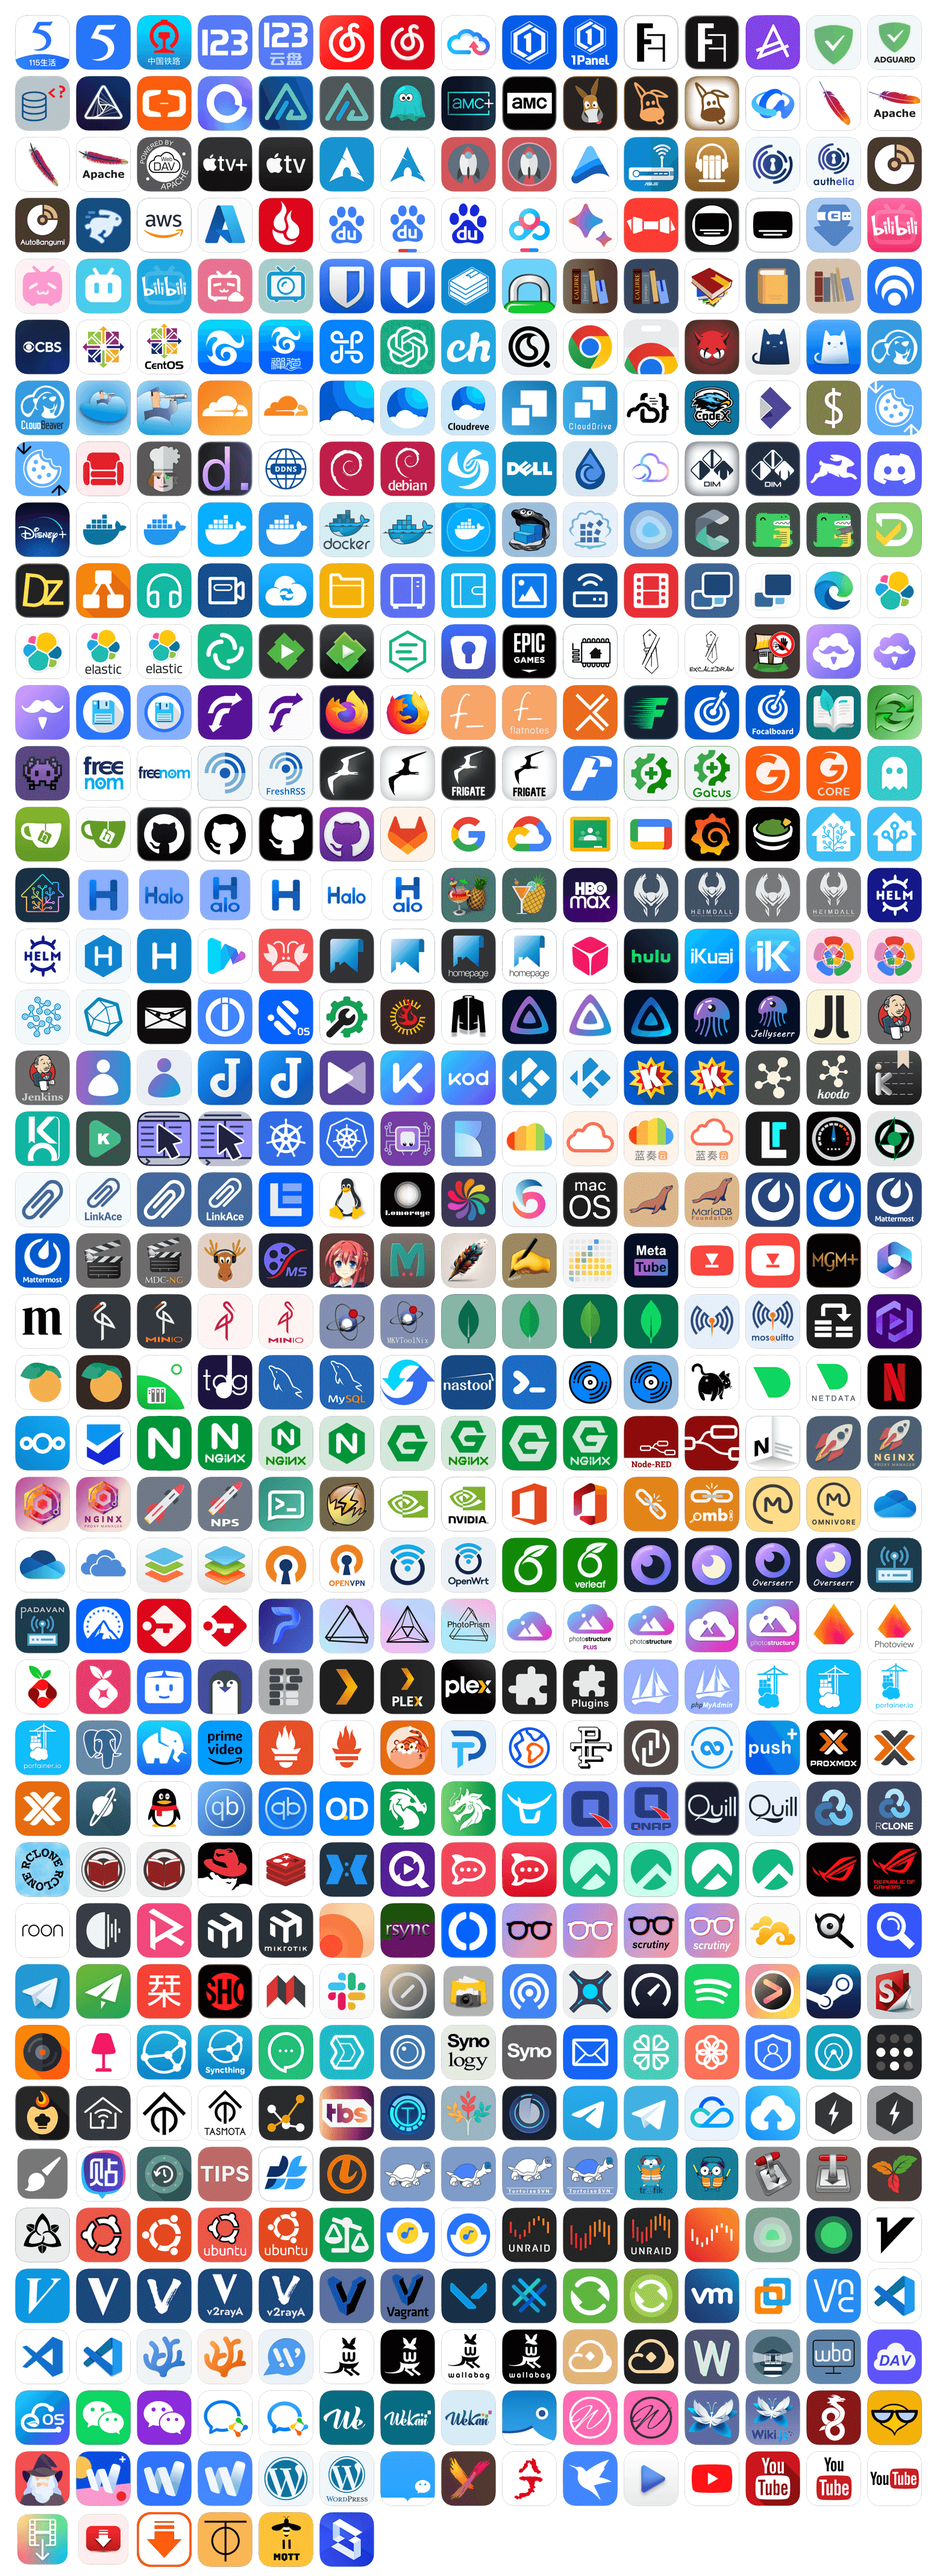
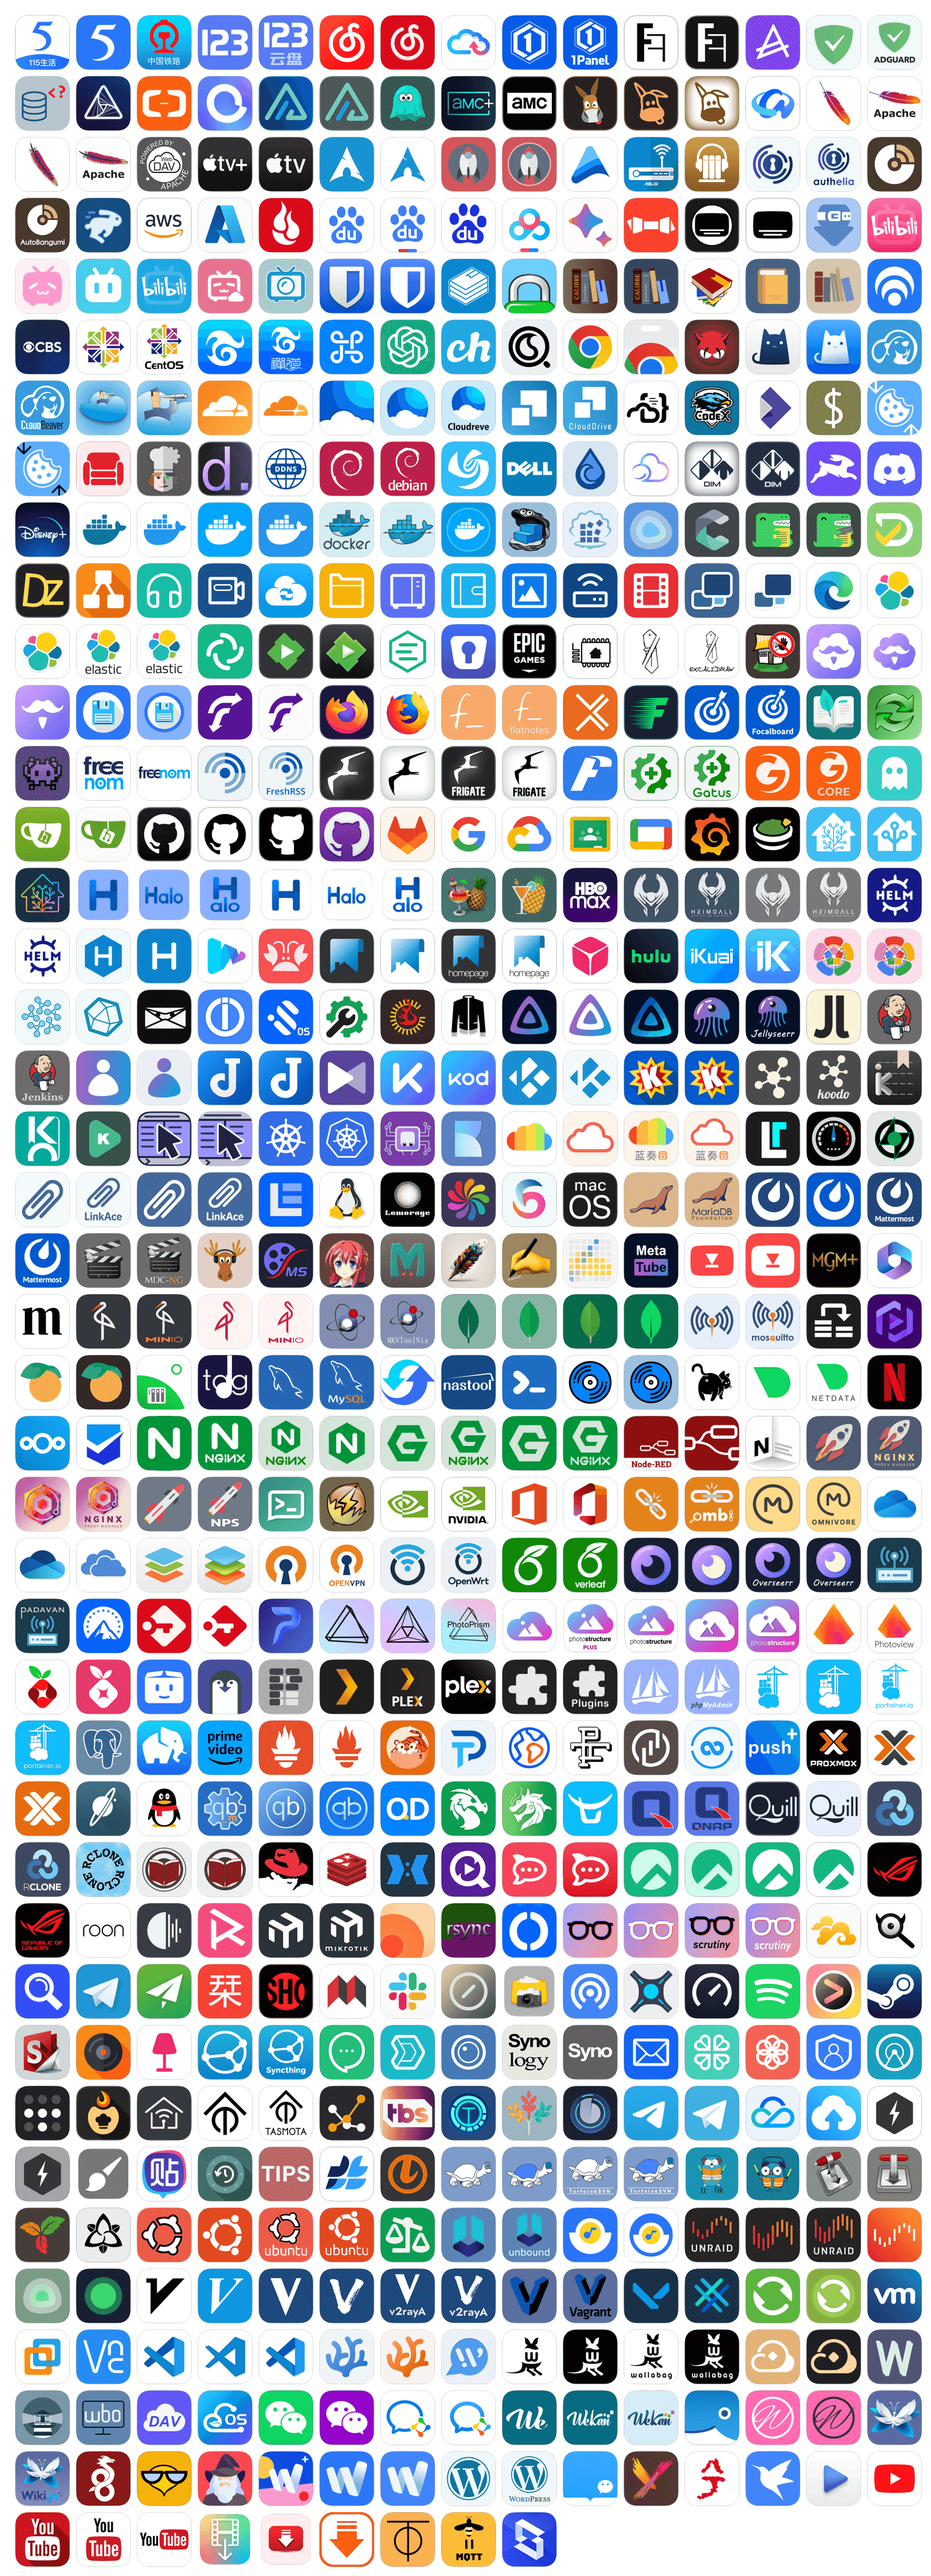
Add Qbitmanage、Unbound

diff --git a/README.md b/README.md
@@ -71,7 +71,7 @@
 
 - 例如，图标文件在 `/mnt/user/appdata/icons` 下，则图标地址填写 `/mnt/user/appdata/icons/xxxxx.png` 或者 `http://127.0.0.1/mnt/user/appdata/icons/xxxxx.png`，将 xxxxx 换成对应的图标名称即可，<a href="#圆角矩形图标"><strong>图标名称预览在此 »</strong></a>
 
-# 图标预览（当前共计 828 个）
+# 图标预览（当前共计 831 个）
 ## 圆角矩形图标
 <!-- START BORDER-RADIUS ICONS -->
 <img src="https://github.com/xushier/HD-Icons/blob/main/_icons-radius.png?raw=true" alt="radius">
